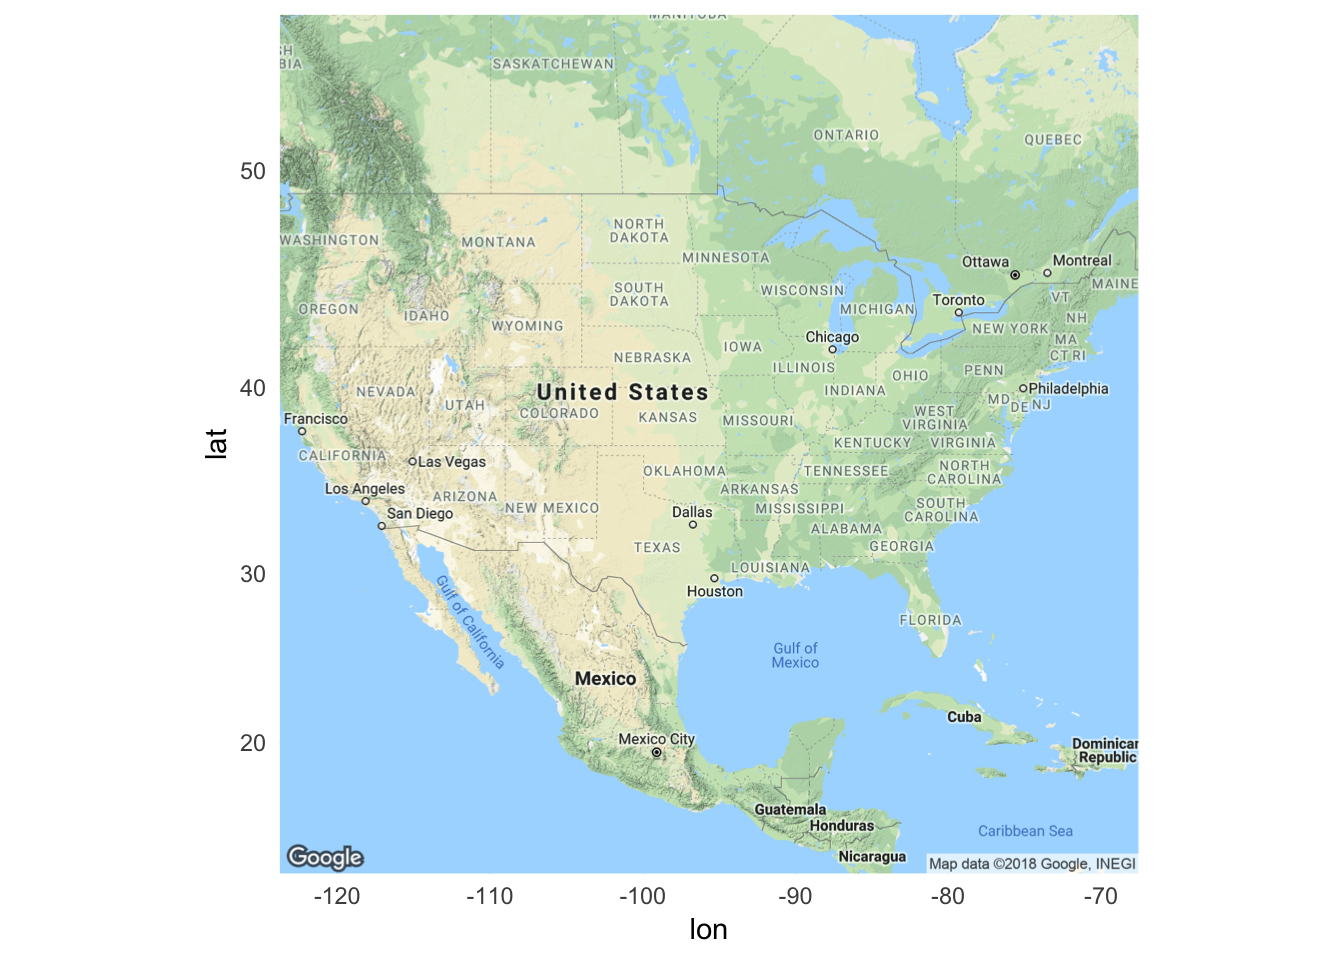
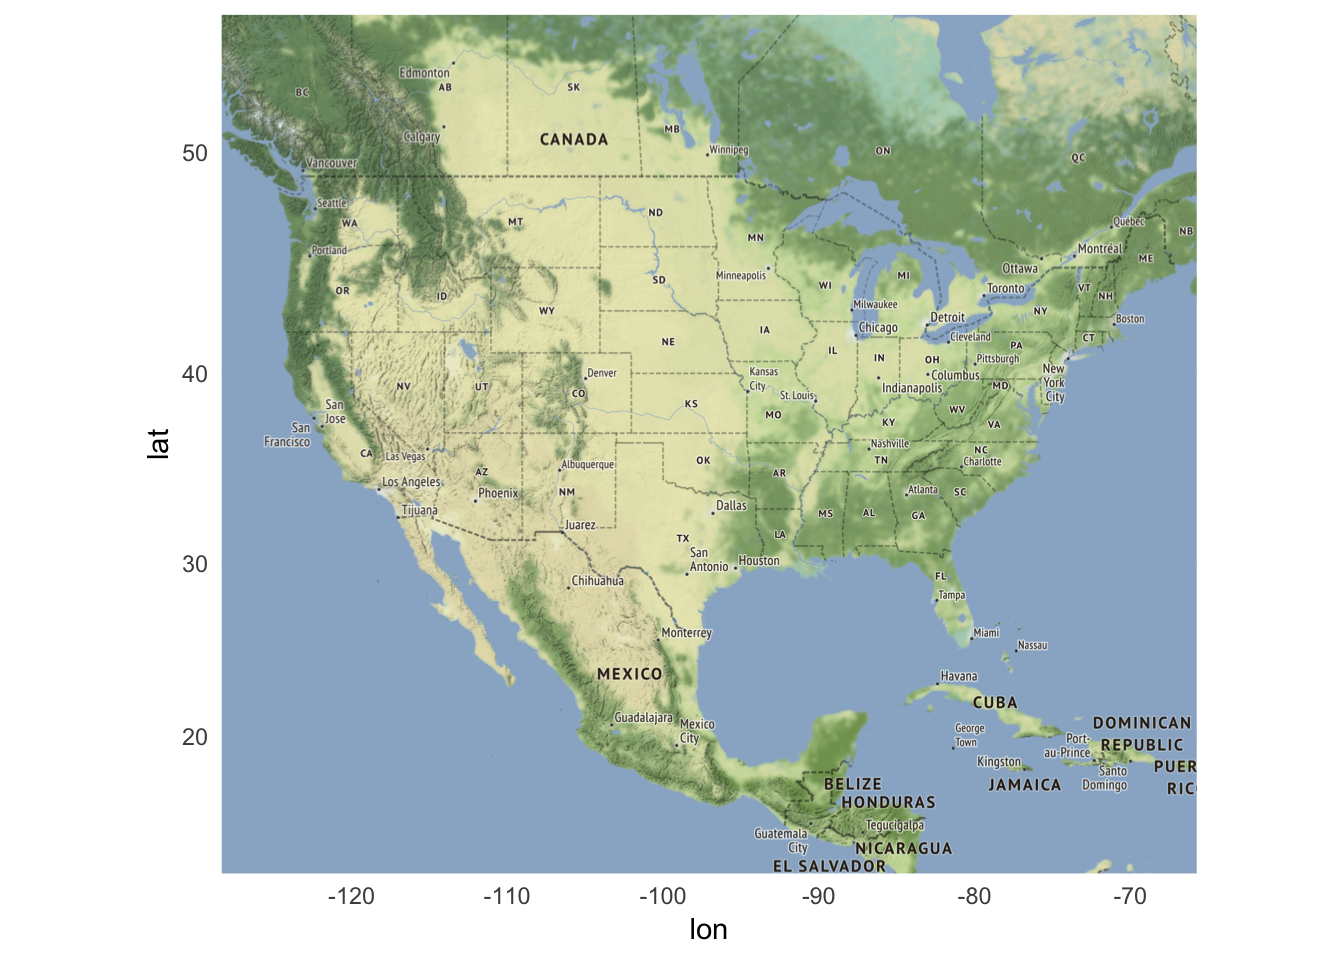
Avoid Google Maps API in intro for geoviz

diff --git a/geoviz_intro.html b/geoviz_intro.html
@@ -402,7 +402,6 @@ div.tocify {
 ##  class         7.3-14  2015-08-30 CRAN (R 3.5.1)               
 ##  classInt      0.2-3   2018-04-16 CRAN (R 3.5.0)               
 ##  cli           1.0.0   2017-11-05 CRAN (R 3.5.0)               
-##  codetools     0.2-15  2016-10-05 CRAN (R 3.5.1)               
 ##  colorspace    1.3-2   2016-12-14 CRAN (R 3.5.0)               
 ##  compiler      3.5.1   2018-07-05 local                        
 ##  crayon        1.3.4   2017-09-16 CRAN (R 3.5.0)               
@@ -428,7 +427,6 @@ div.tocify {
 ##  jpeg          0.1-8   2014-01-23 CRAN (R 3.5.0)               
 ##  jsonlite      1.5     2017-06-01 CRAN (R 3.5.0)               
 ##  knitr         1.20    2018-02-20 CRAN (R 3.5.0)               
-##  labeling      0.3     2014-08-23 CRAN (R 3.5.0)               
 ##  lattice       0.20-35 2017-03-25 CRAN (R 3.5.1)               
 ##  lazyeval      0.2.1   2017-10-29 CRAN (R 3.5.0)               
 ##  lubridate     1.7.4   2018-04-11 CRAN (R 3.5.0)               
